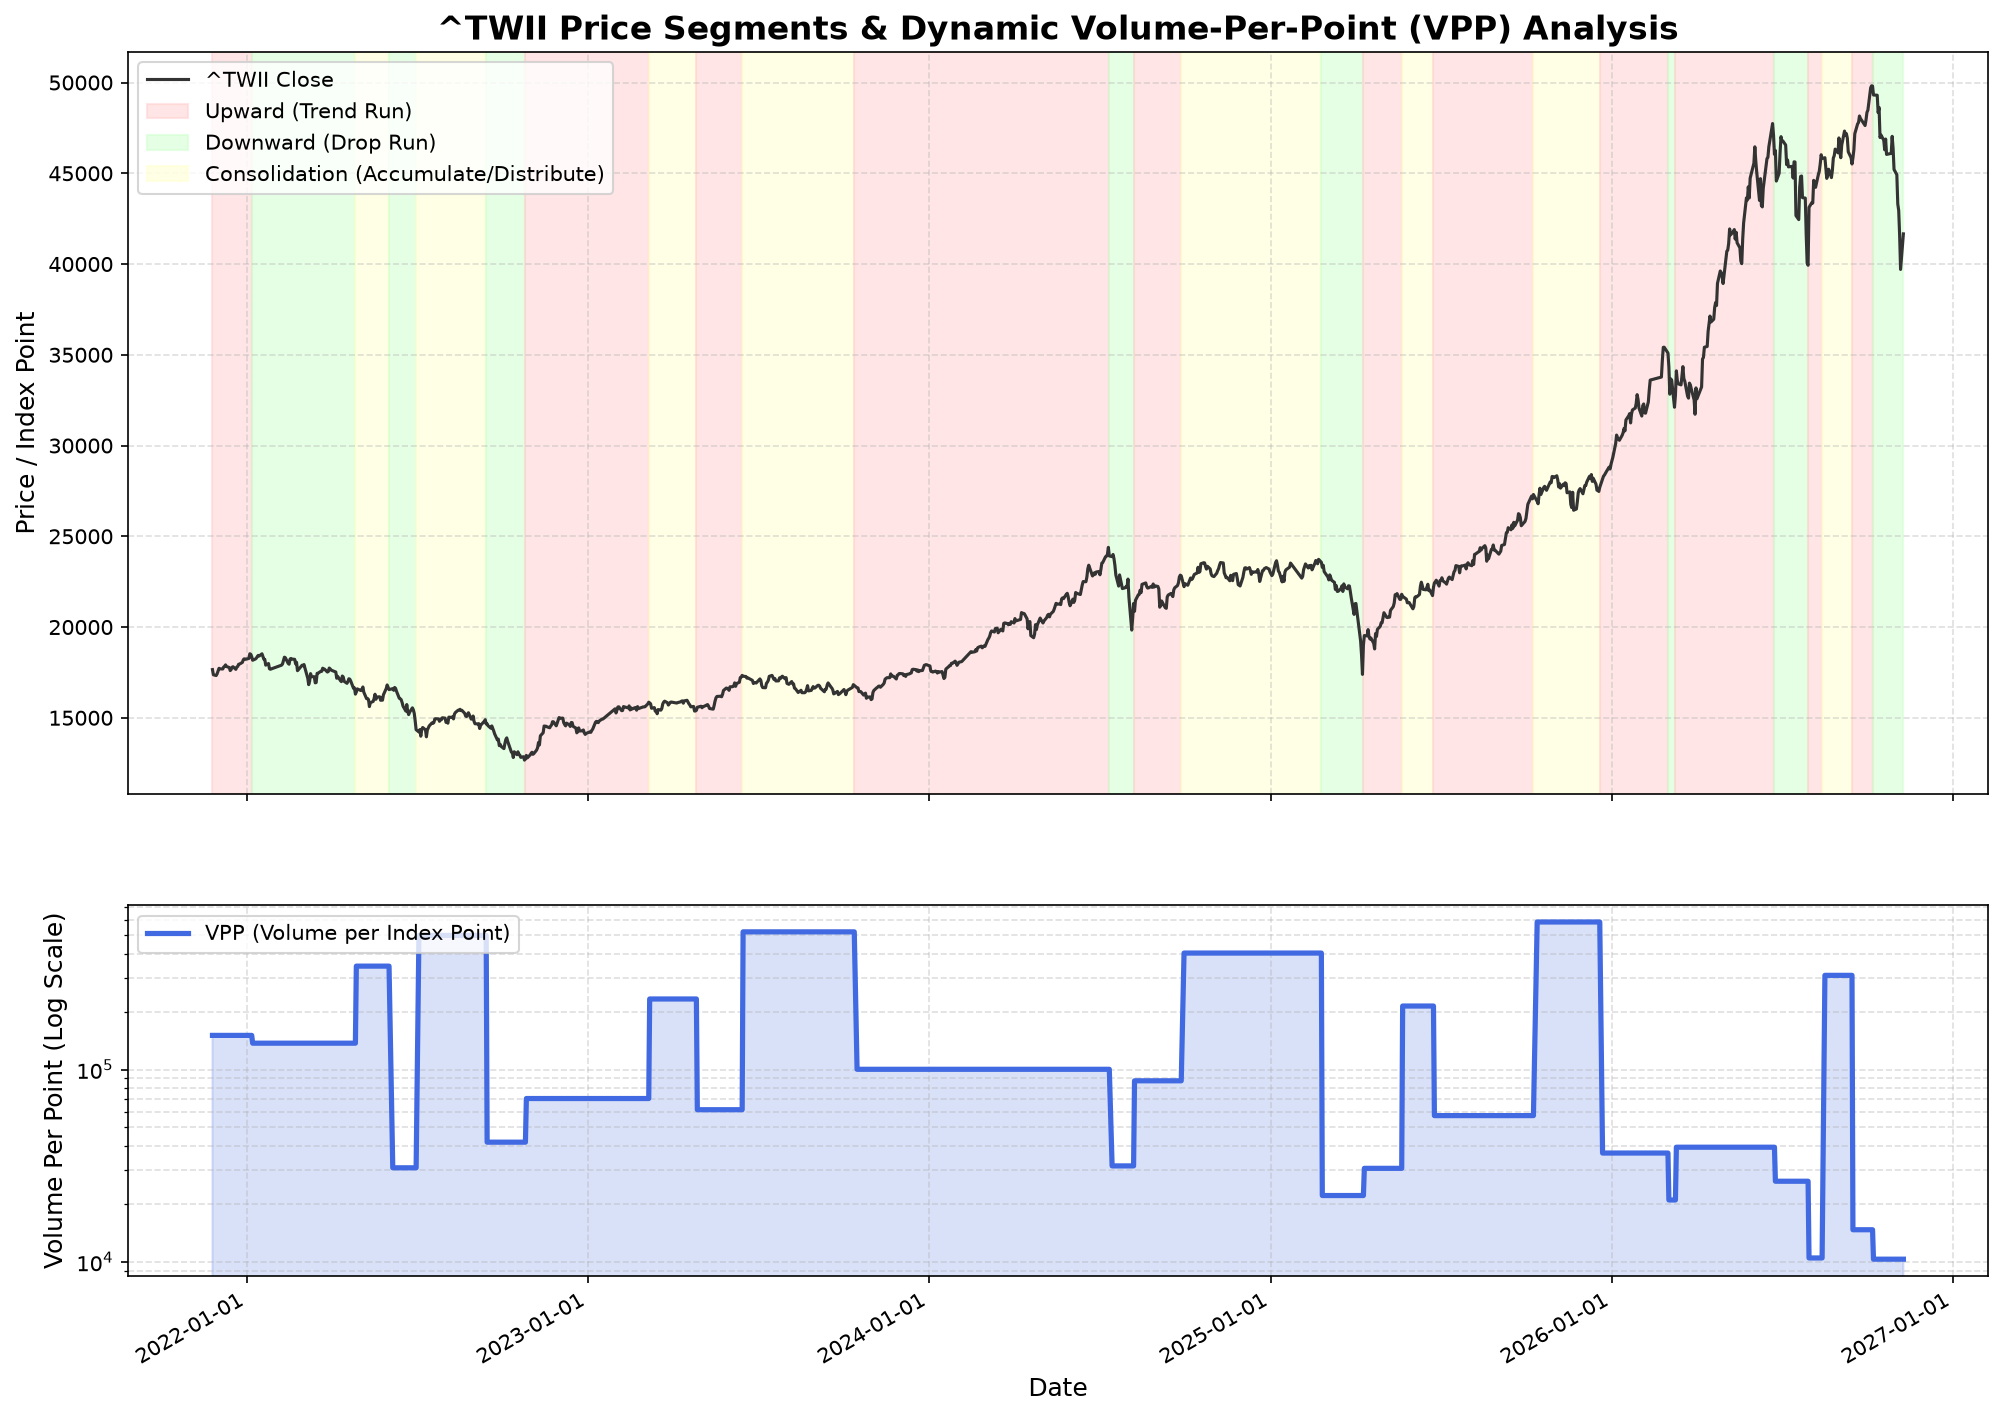
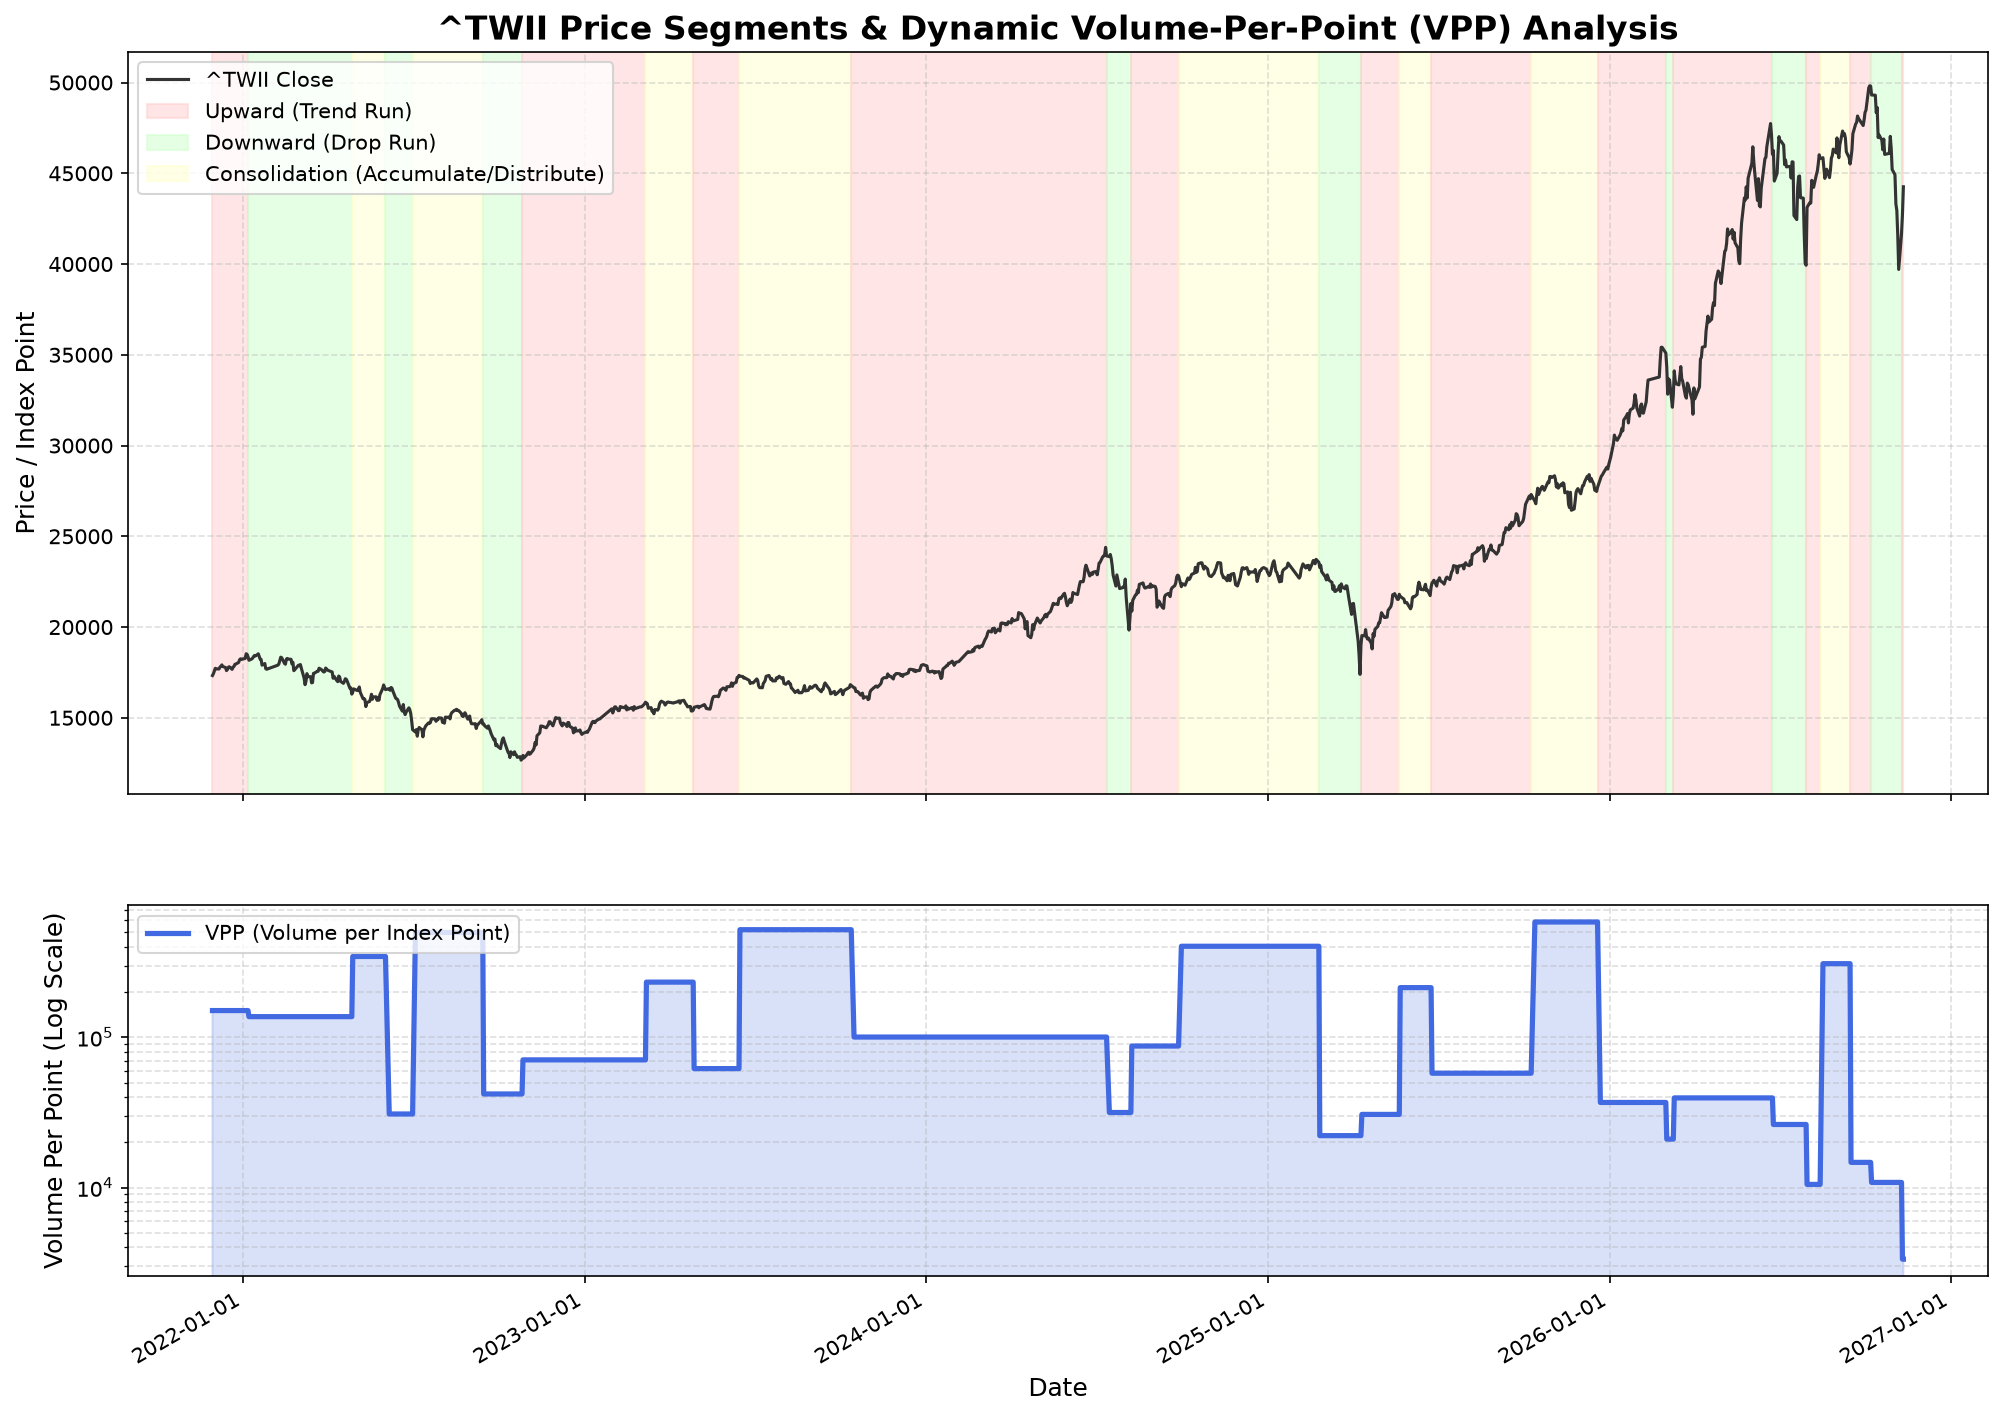
Auto-update momentum report & analysis (2026-11-11)

diff --git a/momentum.html b/momentum.html
@@ -57,7 +57,7 @@
                     <i class="fa-solid fa-bolt text-red-500"></i> 台股量價動能趨勢預估報告
                 </h1>
                 <p class="text-sm text-gray-400 mt-1">
-                    標的：加權指數 (^TWII) ｜ 模型：量價效率與波動對稱預估模型 ｜ 更新日期：2026-11-09
+                    標的：加權指數 (^TWII) ｜ 模型：量價效率與波動對稱預估模型 ｜ 更新日期：2026-11-11
                 </p>
             </div>
             <div class="flex items-center gap-3">
@@ -115,15 +115,15 @@
 【^TWII】【^TWII】量價效率與波動對稱動能模型 (改良版改良成果)
 ================================================================================
 【1. 量價效率分析 (Volume-Per-Point, VPP)】
-  * 上漲波段: 平均移動 1 點需消耗 90,879 股之成交量
-  * 下跌波段: 平均移動 1 點需消耗 87,750 股之成交量
+  * 上漲波段: 平均移動 1 點需消耗 86,502 股之成交量
+  * 下跌波段: 平均移動 1 點需消耗 87,782 股之成交量
   * 盤整波段: 平均移動 1 點需消耗 1,376,197 股之成交量
-  * 💡 學術結論：盤整段之 VPP 為上漲段的 15.1 倍、下跌段的 15.7 倍，極端證明了盤整區確實是高摩擦力的「籌碼吸納/主力出貨期」！
+  * 💡 學術結論：盤整段之 VPP 為上漲段的 15.9 倍、下跌段的 15.7 倍，極端證明了盤整區確實是高摩擦力的「籌碼吸納/主力出貨期」！
 --------------------------------------------------------------------------------
 【2-A. 波動等幅對稱分析 (二波段等幅規律 - 上漲趨勢)】
-  * 樣本數: 18 次對接波段
-  * 平均等幅比率 (後波幅 / 前波幅): 139.17%
-  * 波動等幅對稱符合度 (漲跌幅在 80%~125% 內比例): 22.22%
+  * 樣本數: 19 次對接波段
+  * 平均等幅比率 (後波幅 / 前波幅): 135.32%
+  * 波動等幅對稱符合度 (漲跌幅在 80%~125% 內比例): 21.05%
 --------------------------------------------------------------------------------
 【2-B. 波動等幅對稱分析 (二波段等幅規律 - 下跌趨勢)】
   * 樣本數: 14 次對接波段
@@ -132,43 +132,58 @@
 --------------------------------------------------------------------------------
 【3. 動能枯竭與接續判斷預測準確度】
   * 當波段動能（成交量）低於前波同類波段時，預測將進入「盤整或反轉」：
-  * 回測準確率: 13 / 31 = 41.94%
-  * 💡 改良模型結論：單一動能枯竭法則之回測準確率為 41.94%（低於隨機勝率 50%），顯示單靠成交量縮減不足以獨立作為反轉訊號，需結合 VPP 與波動對稱比率作二次確認。
+  * 回測準確率: 14 / 32 = 43.75%
+  * 💡 改良模型結論：單一動能枯竭法則之回測準確率為 43.75%（低於隨機勝率 50%），顯示單靠成交量縮減不足以獨立作為反轉訊號，需結合 VPP 與波動對稱比率作二次確認。
 ================================================================================
 
   [短線動能預警 (3% 領先燈號)]
-  * 短線波段狀態: 短線止跌上漲
-  * 短線轉折日期: 2026-11-06 (基準價 37,837.05)
-  * 短線累計漲跌: +10.11%
-  * 短線持續天數: 1 天
+  * 短線波段狀態: 短線拉回下跌
+  * 短線轉折日期: 2026-11-11 (基準價 44,257.15)
+  * 短線累計漲跌: +0.00%
+  * 短線持續天數: 0 天
 --------------------------------------------------------------------------------
 【4. 波段機率落點與資金規劃分析 (Probabilistic Target &amp; Capital Planning)】
-  * 目前波段型態: 【下跌趨勢波段】
-  * 本波段起始點: 49,806.37 (2026-10-07)
-  * 前一波下跌段幅: 13.27% (對稱基準點)
-  * 當前最新收盤價: 41,661.70 (目前跌幅: 16.35%, 目前對稱比率: 123.21%)
+  * 目前波段型態: 【上漲趨勢波段】
+  * 本波段起始點: 41,661.70 (2026-11-09)
+  * 前一波上漲段幅: 9.44% (對稱基準點)
+  * 當前最新收盤價: 44,257.15 (目前漲幅: 6.23%, 目前對稱比率: 66.00%)
 
   * 💡 歷史波段對稱性機率落點與勝率列表 (Win Rate Targets):
     -----------------------------------------------------------------------------------------------
-    歷史勝率 (Win Rate)      | 對稱比率 (Ratio)    | 目標跌幅 (Target Pct)  | 目標點位 (Price Level)   | 目前狀態 (Status)
+    歷史勝率 (Win Rate)      | 對稱比率 (Ratio)    | 目標漲幅 (Target Pct)  | 目標點位 (Price Level)   | 目前狀態 (Status)
     -----------------------------------------------------------------------------------------------
-    100%                 | 0.3389          | 4.50            % | 47,566.23             | 🔴 已達成
-    90%                  | 0.3418          | 4.54            % | 47,547.54             | 🔴 已達成
-    80%                  | 0.5374          | 7.13            % | 46,254.78             | 🔴 已達成
-    70%                  | 0.9504          | 12.61           % | 43,524.89             | 🔴 已達成
-    60%                  | 0.9858          | 13.08           % | 43,291.13             | 🔴 已達成
-    50%                  | 1.1877          | 15.76           % | 41,956.35             | 🔴 已達成
-    40%                  | 1.2321          | 16.35           % | 41,663.03             | 🔴 已達成
-    30%                  | 1.7673          | 23.45           % | 38,125.51             | ⚪ 未達成
-    20%                  | 2.0045          | 26.60           % | 36,557.81             | ⚪ 未達成
-    10%                  | 3.6806          | 48.84           % | 25,479.90             | ⚪ 未達成
+    100%                 | 0.1687          | 1.59            % | 42,325.04             | 🟢 已達成
+    90%                  | 0.1933          | 1.82            % | 42,421.93             | 🟢 已達成
+    80%                  | 0.5077          | 4.79            % | 43,658.53             | 🟢 已達成
+    70%                  | 0.6413          | 6.05            % | 44,183.86             | 🟢 已達成
+    60%                  | 0.8276          | 7.81            % | 44,916.64             | ⚪ 未達成
+    50%                  | 1.1593          | 10.94           % | 46,221.02             | ⚪ 未達成
+    40%                  | 1.5163          | 14.31           % | 47,625.05             | ⚪ 未達成
+    30%                  | 1.7695          | 16.70           % | 48,620.73             | ⚪ 未達成
+    20%                  | 2.0586          | 19.43           % | 49,757.81             | ⚪ 未達成
+    10%                  | 3.4062          | 32.15           % | 55,058.02             | ⚪ 未達成
     -----------------------------------------------------------------------------------------------
 
-  * 🛠 資金與避險規劃建議 (Capital Planning Advice):
-    1. 【高勝率止跌帶 (80%-100% 勝率)】: 預期跌幅達到高勝率關卡（點位 47,566.23 ~ 46,254.78）。
-       - 資金規劃上，若空單部位在 80%~100% 區間，應積極獲利平倉，不宜過度追空。
-    2. 【防守與避險建議】: 
-       - 隨著勝率往 50% 或更低邁進，代表下跌空間為極端罕見情況，隨時有報復性反彈，應調降避險部位。
+  * 🛠 資金與曝險規劃建議 (Capital Planning Advice):
+    1. 【高勝率安全帶 (80%-100% 勝率)】: 點位約在 42,325.04 ~ 43,658.53。目前收盤價 (44,257.15) 已完全跨越此區間。
+       - 此區間為極安全的初始建倉區。若未來拉回至此，為高期望值的加碼點。
+    2. 【中勝率成熟帶 (50%-70% 勝率)】: 點位約在 43,658.53 ~ 46,221.02。最新收盤價 (44,257.15) 已進入此成熟區間，正向 50% 臨界點 (46,221.02) 邁進。
+       - 意味著當前波段已接近歷史中位數水準，上行阻力開始增大。資金規劃上，不宜盲目追高重倉，建議採取「部分利潤落袋」或緊縮停利策略。
+    3. 【低勝率高利潤帶 (10%-40% 勝率)】: 目標點位在 46,221.02 ~ 48,620.73 以上。目前價格尚未到達此區域。
+       - 若市場動能極強，向 40% 或 30% 邁進，應逐步調降部位曝險比例，降低槓桿以防範隨時可能的急跌拉回。
+
+  * 🚀 【上漲波段目標預估 (對稱性與極限值)】
+    1. 預估上漲極限高點：
+       * 依歷史極限漲幅 (+42.51%) 投影，本波上漲【天花板目標為：59,372.09 點】。
+       * 目前狀態：目前距離天花板僅剩約 34.15% 的空間。
+    2. 時間長度預估：
+       * 歷史極限上漲天數：182 天。
+       * 目前已持續：2 天。
+       * 預估本波剩餘時間：【約 180 個交易日】。
+    3. 隨後修正幅度預估（一旦確認觸頂進入下跌段）：
+       * 預估基準點（本波至今最高收盤價）：44,257.15 點
+       * 溫和修正路徑 (歷史平均 -10.35%)：預估修正低點約為 39,676.24 點。
+       * 劇烈修正路徑 (歷史最大 -19.37%)：預估修正低點約為 35,684.54 點。
 ================================================================================
 數據分析報表已匯出至: /data/data/com.termux/files/home/storage/downloads/momentum_analysis_backtest.csv
 動能效率分析圖 (含 VPP 曲線) 已儲存至: /data/data/com.termux/files/home/storage/downloads/market_momentum_analysis.png
